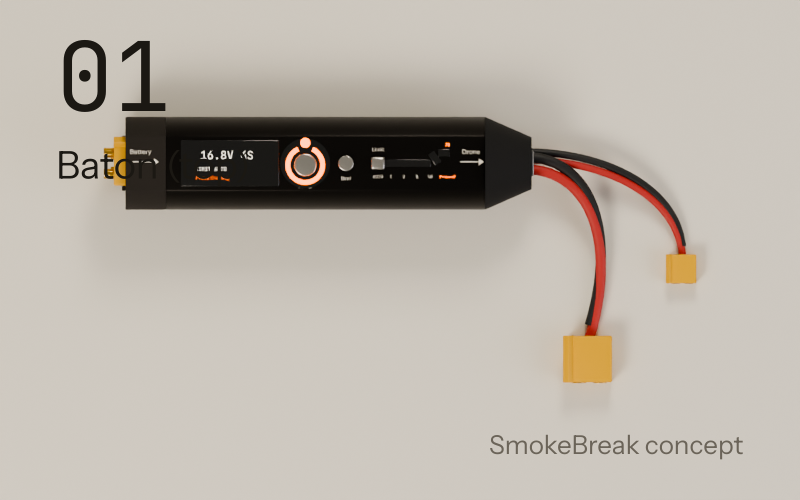
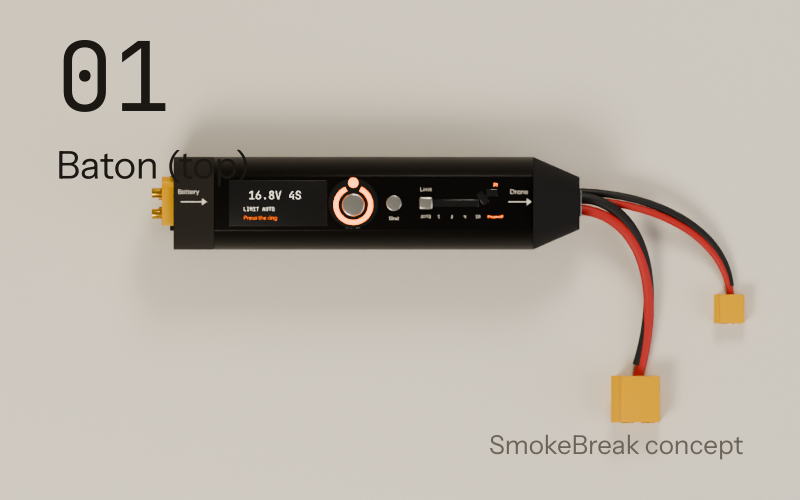
smokebreak: final edits to concepts 01-04
Claude-Session: https://claude.ai/code/session_01SBnFJLvm1wBa1jZy4RXnma

Changed region(s): [[0.125, 0.15, 0.9375, 0.87]]

diff --git a/smokebreak/concepts/04-halo/concept.md b/smokebreak/concepts/04-halo/concept.md
@@ -1,37 +1,33 @@
 # 04 Halo
 
-**Pitch:** the product is the OffGrid mark: a machined C-shaped ring with the Beacon node standing in the gap. The node is Power, the ring is the status light, and you set Limit by touching the number printed on the ring.
+**Pitch:** the product is the OffGrid mark: a C-shaped aluminium ring with the Beacon node standing in its gap. The node is Power and the ring is the status light. Touch the printed number to set Limit.
 
-**Form & size:** Ø96 mm, band 24 mm wide, 18 mm tall. The Ø20 node stands 22 mm tall on a recessed bridge, so it reads as floating. About 160 g.
-- Black anodised aluminium, CNC-machined, hollow, with a rubber base.
-- A frosted light channel inset along the inner edge.
-- Glass over the screen.
-- Batch 1: CNC aluminium or MJF nylon with paint. Later: die-cast and machined.
+**Form & size:** Ø96 mm, band 24 mm, 18 mm tall. The Ø20 node stands 22 mm tall on a recessed bridge, so it reads as floating. About 160 g.
+- Hollow, CNC-machined black anodised aluminium.
+- A frosted light channel along the inner edge. Glass over the screen.
+- Batch 1: CNC, or painted MJF. Later: die-cast and machined.
 
 **Boards:**
-- **One C-shaped 4-layer board** (OD 92, ID 52, 2 oz outer layers) follows the band.
-- The power path (FETs, shunt, pulse resistors) sits in the lower arc, pressed through a gap pad onto bosses in the base. The ring is the heatsink.
-- XT60PW + XT30PW male are on the outer wall at 9 o'clock, stacked with a rib between them. The drone leads exit through glands at 3 o'clock.
-- USB-C is on the outer wall at 5 o'clock.
-- A Ø16 node board (Power switch and ring of LEDs) is joined by a flex through the bridge.
-- Capacitive touch pads sit under the printed Limit numbers.
+- **One C-shaped 4-layer board** (OD 92, ID 52, 2 oz outer layers). The power path sits in the lower arc on a gap pad over the base, and the ring is the heatsink.
+- XT60PW + XT30PW male are on the outer wall at 9 o'clock, stacked with a rib. The leads leave at 3 o'clock and USB-C is at 5 o'clock.
+- A Ø16 node board (Power and its LEDs) is joined by a flex through the bridge.
+- Capacitive pads sit under the Limit numbers.
 
 **UX:**
 - **Power:** press the dot.
-- **Limit:** touch AUTO, 1, 2, 5, 10 or 20 on the left arc. Your choice lights up. Touching 20 asks for a second touch: props off.
+- **Limit:** touch AUTO, 1, 2, 5, 10 or 20 on the left arc, and your choice lights up. 20 asks for a second touch: props off.
 - **Bind:** a stainless button on the right arc.
-- **Screen:** a 1.14" IPS at 6 o'clock, facing you.
-- **Status:** the whole ring glows in the status colour.
+- **Screen:** a 1.14" IPS at 6 o'clock, facing you. The whole ring glows the status.
 - **First use:** 1 Battery in, 2 Drone in, 3 Press the dot.
-- **Why it's noob-proof:** the current flows round the ring from the battery side to the drone side, so it explains itself.
-- **Pains answered (SPEC §2):** best on 6 (status you can't miss) and 4 (Limit you can see).
+- **Why it's noob-proof:** the current visibly flows round the ring from battery to drone.
+- **Pains answered (SPEC §2):** 6 and 4.
 
-**Cost delta:** about +$10 (machined C ring and node +$5, C-shaped board panel waste +$1.2, touch and 16 LEDs +$0.6, IPS and glass +$1.5, flex +$0.4).
+**Cost delta:** about +$10 (ring and node +$5, board panel waste +$1.2, touch and LEDs +$0.6, IPS and glass +$1.5, flex +$0.4).
 
 **Risks:**
-- Touch pads under anodised aluminium need glass or PMMA inlays.
-- Accidental touches (Limit only changes on a deliberate press).
-- The largest footprint of my four.
-- The bridge looks fragile when it is thin.
+- Touch pads need glass or PMMA inlays.
+- Accidental touches.
+- The largest footprint.
+- A thin bridge would look fragile.
 
 **Scores:** Premium 5 · Noob-proof 4 · Bench practicality 3 · Build quality 4 · Uniqueness 5

diff --git a/smokebreak/concepts/01-baton/concept.md b/smokebreak/concepts/01-baton/concept.md
@@ -1,27 +1,29 @@
 # 01 Baton
 
-**Pitch:** a torch-sized aluminium tube. Battery in one end, drone out the other, and everything you touch sits in one line on a flat spine: screen, Power ring, Bind, Limit slider.
+**Pitch:** a torch-sized aluminium tube. Battery in one end, drone out the other. Everything you touch sits in a line on one flat spine.
 
-**Form & size:** Ø32 × 140 mm (144 mm with the battery pins), about 130 g. Black anodised 6063 aluminium tube with a milled 18 mm flat on top (the spine) and a flat foot underneath, so it cannot roll. Rubber boot at the drone end. Batch 1: stock 32 × 1.6 mm tube, milled, with a printed inner sled (MJF) and printed end caps. Later: a custom extrusion with card-guide rails (~$1.5k die) and moulded caps.
+**Form & size:** Ø32 × 140 mm (144 mm with the pins), about 130 g.
+- Black anodised aluminium tube. The flat top spine and flat foot stop it rolling.
+- Rubber boot at the drone end.
+- Batch 1: milled stock tube, MJF sled and caps. Later: a custom extrusion with card guides, moulded caps.
 
 **Boards (2, stacked, slide in from the battery end):**
-- **A, power:** 20 × 96 mm, 2 oz. XT60PW male on top and XT30PW male underneath at the end, so the board itself is the rib between them. FETs, shunt, pulse resistors and TVS on the underside, pressed onto a rib in the tube through a gap pad. The tube is the heatsink. Drone leads are soldered at the far end.
-- **B, logic and face:** 18 × 112 mm, 6 mm above A. It carries the MCU, the 1.14" IPS, the switches, the ring LEDs, a hall sensor for the slider and the beeper, with USB-C at the drone end above the lead gland.
+- **A, power:** 20 × 96 mm, 2 oz. XT60PW male on top and XT30PW male below, so the board is the rib between them. The FETs and resistors underneath sit on a gap pad over a rib in the tube, and the tube is the heatsink.
+- **B, logic and face:** 18 × 112 mm, 6 mm above A. It carries the MCU, the 1.14" IPS, the switches, the ring LEDs, a slider hall sensor and USB-C at the drone end.
 - A and B are joined by a 2 × 6, 1.27 mm board-to-board header.
 
 **UX:**
 - **Power:** press inside the Beacon Ring.
-- **Bind:** a small button next to the ring.
-- **Limit:** a stainless slider that runs AUTO, 1, 2, 5 and 10. 20 A sits behind a sideways gate, so you can't land on it by accident (props off). The setting can be read without power. Answers SPEC §2 pains 4 and 6.
-- **Screen:** a colour 1.14" IPS with three lines of words.
+- **Bind:** a button next to the ring.
+- **Limit:** a stainless slider. 20 A sits behind a sideways gate (props off), and the setting is readable even unpowered.
 - **First use:** 1 Battery in, 2 Drone in, 3 Press the ring.
+- **Pains answered (SPEC §2):** 4 and 6.
 
-**Cost delta:** about +$6 (tube and machining +$3.5, IPS and glass +$1.2, second board and header +$0.6, slider and hall sensor +$0.6). Landed cost about $16.5.
+**Cost delta:** about +$6 (tube +$3.5, IPS +$1.2, second board +$0.6, slider +$0.6).
 
 **Risks:**
-- A physical slider can't drop back on its own after the 30 s at 20 A, so the screen has to say "Slide back".
-- The leads pull on the end of a light, round body.
-- The board stack is a tight fit (5.6 mm under board B).
-- A long, narrow board 18 mm wide.
+- The slider can't drop back on its own after the 30 s at 20 A.
+- The leads pull on a light body.
+- Tight stack: 5.6 mm under board B.
 
 **Scores:** Premium 4 · Noob-proof 4 · Bench practicality 4 · Build quality 5 · Uniqueness 4

diff --git a/smokebreak/concepts/03-lantern/concept.md b/smokebreak/concepts/03-lantern/concept.md
@@ -1,33 +1,30 @@
 # 03 Lantern
 
-**Pitch:** stands upright on the bench like a small lantern. A glowing glass band shows the status in 360°, readable across the room. Turn the knurled crown to set Limit and press its centre for Power.
+**Pitch:** stands upright on the bench. A glowing glass band shows the status in 360°, readable across the room. Turn the knurled crown for Limit and press its centre for Power.
 
 **Form & size:** Ø46 × 98 mm on a Ø52 × 7 mm stainless base, about 230 g (110 g of it ballast, so the leads can't tip it).
-- Body: black anodised aluminium tube.
-- Halo: a 5 mm band of frosted glass or PMMA.
-- Crown: knurled aluminium.
-- Screen cover: curved glass.
-- Batch 1: CNC tube and crown, MJF inner chassis. Later: impact-extruded tube and moulded chassis.
+- Anodised aluminium tube with a flat window for the screen.
+- A frosted glass halo band and a knurled aluminium crown.
+- Batch 1: CNC with an MJF chassis. Later: impact-extruded tube.
 
 **Boards (2):**
-- **A, main:** 38 × 70 mm, stands vertically. The power path sits low (FETs, shunt and pulse resistors clamp through a gap pad onto the stainless base, which is the heatsink). Logic, MCU and the 1.47" display are high up.
-- XT60PW + XT30PW male are on the left edge, stacked with a rib between them. The drone leads are soldered on the right edge. USB-C is on the back.
-- **B, crown:** Ø40, carries the Power switch, the Beacon Ring LEDs and an AS5600 magnetic encoder that reads a magnet in the crown (no contacts to wear).
+- **A, main:** 38 × 70 mm, vertical. The power path sits low, with the FETs and resistors on a gap pad over the stainless base, which is the heatsink. The MCU and 1.47" display sit high.
+- XT60PW + XT30PW male are on the left edge, stacked with a rib between them. The leads are on the right edge. USB-C is on the back.
+- **B, crown:** Ø40, carries Power, the ring LEDs and an AS5600 magnetic encoder that reads a magnet in the crown (contactless).
 - A and B are joined by an 8-way FFC.
 
 **UX:**
-- **Power:** press the centre of the crown.
-- **Limit:** turn the crown. AUTO, 1, 2, 5 and 10 click into place against an index mark. 20 A needs push-and-turn, like a medicine cap: props off, physically.
+- **Power:** press the crown's centre.
+- **Limit:** turn the crown. AUTO, 1, 2, 5 and 10 click into place. 20 A needs push-and-turn, like a medicine cap: props off.
 - **Bind:** a stainless button under the screen.
-- **Screen:** a 1.47" portrait IPS with words and big numbers.
 - **First use:** 1 Battery in, 2 Drone in, 3 Press the top.
-- **Pains answered (SPEC §2):** best on 6 (status you can see across the room) and 4 (Limit is a real dial).
+- **Pains answered (SPEC §2):** best on 6 (status across the room) and 4 (a real dial).
 
-**Cost delta:** about +$9 (machined tube and crown +$4, stainless base +$1.5, encoder and magnet +$0.7, 1.47" IPS +$1.2, glass halo +$0.8, second board and FFC +$0.6).
+**Cost delta:** about +$9 (tube and crown +$4, base +$1.5, encoder +$0.7, IPS +$1.2, halo +$0.8, second board +$0.6).
 
 **Risks:**
-- Tall: a knocked lead can still topple it if the base is light.
-- The crown seal and its detent feel.
+- Tall: it can topple if the base is cut.
+- Getting the crown seal and detents right.
 - More parts to assemble.
 
 **Scores:** Premium 5 · Noob-proof 5 · Bench practicality 4 · Build quality 5 · Uniqueness 4

diff --git a/smokebreak/concepts/02-puck/concept.md b/smokebreak/concepts/02-puck/concept.md
@@ -3,31 +3,29 @@
 **Pitch:** a heavy aluminium puck with a glass top. The Beacon Ring glows under the glass around a round screen. Press the glass to power on. The ring's dot is a real metal button, and it is Bind.
 
 **Form & size:** Ø80 × 22 mm, about 150 g.
-- Black bead-blasted, anodised 6061 aluminium shell, CNC-machined, with flats at 9 o'clock (battery) and 3 o'clock (drone).
-- A Ø66 × 2 mm toughened glass top, printed on the back.
-- A rubber foot ring underneath.
-- Batch 1: CNC aluminium (or an MJF nylon shell for samples). Later: die-cast or forged and machined.
+- CNC-machined, bead-blasted black anodised aluminium.
+- Flats at 9 o'clock (battery) and 3 o'clock (drone).
+- A Ø66 toughened glass top, printed on the back. Rubber foot ring.
+- Batch 1: CNC, or MJF for samples. Later: die-cast and machined.
 
 **Boards:**
-- **One round 4-layer board, Ø74, 2 oz outer layers.** The FETs, shunt and pulse resistors are underneath, pressed onto a boss in the base through a gap pad. The aluminium base is the heatsink.
-- The display, on its FPC, sits under the glass. The light guide sits over 12 RGB LEDs.
-- XT60PW + XT30PW male are on the board edge at the left flat, with a rib between them. The drone leads leave through glands in the right flat. USB-C is on the back rim.
+- **One round 4-layer board, Ø74, 2 oz outer layers.** FETs, shunt and pulse resistors sit underneath on a gap pad over the base, which is the heatsink.
+- The round IPS sits on its FPC under the glass, with a light guide over 12 RGB LEDs.
+- XT60PW + XT30PW male are on the board edge at the left flat, with a rib between them. The leads leave through glands on the right. USB-C is on the back rim.
 
 **UX:**
-- **Power:** press anywhere on the glass. It floats on one dome switch and travels 0.4 mm, like a trackpad.
-- **Bind:** press the Ring's dot (stainless, glows blue).
-- **Limit:** a stainless pill on the front rim. Each click lights the next mark on the printed scale (AUTO 1 2 5 10 20), and 20 A needs a second click.
-- **Screen:** a 1.28" round IPS (240 × 240) gives large centred words, more readable than the 0.96" OLED.
+- **Power:** press anywhere on the glass (one dome switch, 0.4 mm travel).
+- **Bind:** press the dot (stainless, glows blue).
+- **Limit:** a pill on the front rim. Each click lights the next mark (AUTO 1 2 5 10 20), and 20 A needs a second click.
+- **Screen:** a 1.28" round IPS with large words.
 - **First use:** 1 Battery in, 2 Drone in, 3 Press the glass.
-- **Why it's noob-proof:** the biggest thing is the thing you press.
-- **Pains answered (SPEC §2):** best on 6 (confusing LEDs) and 7 (closed, solid, nothing to rip off).
+- **Pains answered (SPEC §2):** best on 6 and 7.
 
-**Cost delta:** about +$7 (machined shell +$3.5, glass +$0.8, round IPS +$1.5, light guide and 12 LEDs +$0.6, bigger board +$0.6).
+**Cost delta:** about +$7 (shell +$3.5, glass +$0.8, round IPS +$1.5, light guide and LEDs +$0.6, board +$0.6).
 
 **Risks:**
-- Glass-top switch feel needs tuning.
-- Batch 1 machining cost.
-- The leads can drag a light puck (it needs the weight).
-- The glass must be toughened.
+- Tuning the feel of the glass click.
+- Machining cost.
+- The leads drag a light puck.
 
 **Scores:** Premium 5 · Noob-proof 5 · Bench practicality 4 · Build quality 5 · Uniqueness 4
